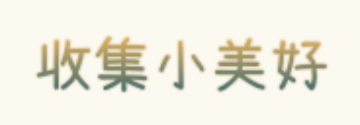
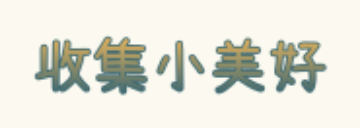
Support font choices across lettering recipes

Changed region(s): [[0.0917, 0.264, 0.9167, 0.744]]

diff --git a/src/creation-library/title.js b/src/creation-library/title.js
@@ -6,13 +6,14 @@ const extent=(text,fontSize)=>segments(text).reduce((sum,ch)=>sum+fontSize*pt*(/
 const roles={primary:1.35,secondary:.78,normal:1};
 const at=(x,y)=>({reference:'parent',at:[x,y],unit:'mm',anchor:'top-left'});
 
-export const titleFields=['text','fontFamily','fontSizePt','widthMm','heightMm','colors','pattern','count','runs','emphasis','caption','gapMm','style','curveHeightMm'];
+export const titleFields=['text','fontFamily','fontSizePt','widthMm','heightMm','colors','pattern','count','runs','emphasis','caption','captionFontFamily','gapMm','style','curveHeightMm'];
 export const titleHelp={
- runs:'可选词组数组；每项 {text,role:primary|secondary|normal,breakBefore?,rotationDeg?,offsetMm?,style?}，text 拼接必须等于完整标题；按词义分组，不随机旋转每字',
+ runs:'可选词组数组；每项 {text,role:primary|secondary|normal,fontFamily?,breakBefore?,rotationDeg?,offsetMm?,style?}。fontFamily 可给某个词组换字体；text 拼接必须等于完整标题；按词义分组，不随机旋转每字',
  emphasis:'需底色或圈注的精确词组，必须在 text 中出现；多个同词默认均强调',
  style:'与 text.add 相同的文字 style；可组合 outline/gradient/shadow/fillOpacity/字体等，不包含位置尺寸',
  curveHeightMm:'弧形标题弯曲高度，-80–80 mm；正负改变方向，必须单行',
  caption:'标题旁的小注，用户事实或本任务允许的随写；不自动编造',
+ captionFontFamily:'小注字体；默认沿用标题字体，可选预装字体或本机已安装字体',
  gapMm:'词组间距，0–20 mm'
 };
 
@@ -24,7 +25,8 @@ export function validateTitle(p){
  if(p.runs!==undefined){
   if(!Array.isArray(p.runs)||!p.runs.length||p.runs.length>24)throw Error('词组须为 1–24 项');
   for(const r of p.runs){
-   if(!r||Object.keys(r).some(k=>!['text','role','breakBefore','rotationDeg','offsetMm','style'].includes(k))||typeof r.text!=='string'||!r.text.length||!Object.hasOwn(roles,r.role||'normal'))throw Error('词组内容或角色无效');
+   if(!r||Object.keys(r).some(k=>!['text','role','fontFamily','breakBefore','rotationDeg','offsetMm','style'].includes(k))||typeof r.text!=='string'||!r.text.length||!Object.hasOwn(roles,r.role||'normal'))throw Error('词组内容或角色无效');
+   if(r.fontFamily!==undefined&&(typeof r.fontFamily!=='string'||!r.fontFamily.trim()))throw Error('词组字体名无效');
    if(r.breakBefore!==undefined&&typeof r.breakBefore!=='boolean')throw Error('词组换行无效');
    if(r.rotationDeg!==undefined&&(!Number.isFinite(r.rotationDeg)||Math.abs(r.rotationDeg)>20))throw Error('词组旋转须为 -20–20 度');
    if(r.offsetMm!==undefined&&(!Array.isArray(r.offsetMm)||r.offsetMm.length!==2||!r.offsetMm.every(n=>Number.isFinite(n)&&Math.abs(n)<=20)))throw Error('词组偏移须为两个 -20–20 mm 数值');
@@ -47,7 +49,7 @@ export function compileTitle(p,{widthExplicit=false}={}){
  if(p.treatment==='offset-outline')style.outline={color:accent,widthMm:.4,offsetMm:[.6,.7]};
  if(p.treatment==='shadow')style.shadow={color:accent,offsetMm:[.6,.7],blurMm:.1};
  if(['gradient','gradient-outline'].includes(p.treatment))style.gradient={angleDeg:90,stops:[{offset:0,color:accent},{offset:1,color:colors[0]}]};
- if(p.treatment==='gradient-outline')style.outline={color:ground,widthMm:.4,offsetMm:[0,0]};
+ if(p.treatment==='gradient-outline')style.outline={color:colors[0],widthMm:.35,offsetMm:[0,0]};
  Object.assign(style,p.style);
  const children=[],texts=[],background=[],notes=[];let next=0;
  const shape=(kind,x,y,w,h,paint={})=>({op:'graphic.add',id:p.id+'-mark'+(++next),geometry:{kind},place:at(x,y),size:{width:w,height:h,unit:'mm'},style:{fill:accent,...paint}});
@@ -66,7 +68,7 @@ export function compileTitle(p,{widthExplicit=false}={}){
  if(runs){
   let x=5,y=5,lineH=0;
   for(const run of runs){
-   const primary=run.role==='primary',s={...style,fontSizePt:fontSize*roles[run.role||'normal'],...run.style};
+   const primary=run.role==='primary',s={...style,fontSizePt:fontSize*roles[run.role||'normal'],...run.style,...(run.fontFamily?{fontFamily:run.fontFamily}:{})};
    const w=Math.min(width-10,extent(run.text,s.fontSizePt)+2);
    if((run.breakBefore||x+w>width-5)&&x>5){x=5;y+=lineH+(p.gapMm??2);lineH=0;}
    const dx=run.offsetMm?.[0]||0,dy=run.offsetMm?.[1]||(primary?0:s.fontSizePt*pt*.18);
@@ -96,7 +98,7 @@ export function compileTitle(p,{widthExplicit=false}={}){
  const mainTexts=texts.slice();
  let height=Math.max(p.heightMm||14,...texts.map(t=>t.y+t.h+5));
  if(p.treatment==='seal')height=Math.max(height,width);
- if(p.caption){const y=p.treatment==='seal'?width+3:Math.max(...texts.map(t=>t.y+t.inkHeight))+3;const t=addText(p.caption,5,y,width-10,{fontFamily:style.fontFamily,fontSizePt:Math.min(12,fontSize*.65),color:colors[0]});height=t.y+t.h+5;}
+ if(p.caption){const y=p.treatment==='seal'?width+3:Math.max(...texts.map(t=>t.y+t.inkHeight))+3;const t=addText(p.caption,5,y,width-10,{fontFamily:p.captionFontFamily||style.fontFamily,fontSizePt:Math.min(12,fontSize*.65),color:colors[0]});height=t.y+t.h+5;}
  if(['label','bubble','seal'].includes(p.treatment))background.unshift(shape(['bubble','seal'].includes(p.treatment)?'ellipse':'rect',0,0,width,p.treatment==='seal'?width:height,{fill:ground,...(p.treatment==='seal'?{stroke:colors[0],strokeWidthMm:.4}:{})}));
  if(p.treatment==='underline'){
   const last=mainTexts.at(-1),bottom=last.y+last.inkHeight;

diff --git a/src/creation-library/techniques.js b/src/creation-library/techniques.js
@@ -8,6 +8,7 @@ import {techniqueExample,exampleMaterials} from './examples.js';
 import {measureSceneText} from '../scene-text-layout.js';
 import {styleFor} from '../scene-node-properties.js';
 import {tapeDimensions} from '../tape-strip.js';
+import {journalBundledFonts} from '../journal-font-catalog.js';
 export const techniqueCatalog=catalog;
 const common=['id','reference','at','rotationDeg'];
 const graphic=['widthMm','heightMm','colors','seed'];
@@ -36,7 +37,7 @@ export function describeTechnique(id){
  const names=methodFields(method),help={...fieldHelp,...titleHelp,...(method.recipe==='accent'?{count:'数字点缀候选数量 1–24；指定 positions 时以其长度为准；避让可能减少实际数量',widthMm:'点缀组局部范围宽度，毫米；不会缩放实体',heightMm:'点缀组局部范围高度，毫米；不会缩放实体'}:{}),...(method.recipe==='tape'?{widthMm:'胶带摆放范围宽度，毫米；不会缩放实体',heightMm:'胶带摆放范围高度，毫米；不会缩放实体'}:{}),corePlace:'可选窗芯位置，使用 layer.update.place 的完整结构。传入时显示并定位窗芯；不传则隐藏保留。位置按裁下窗芯的外接框定位，保留原图裁切来源',strip:'已经放置并对准孔位的真实纸条节点 ID；不缩放或自动拉长',through:'按穿行顺序给 2–16 项 {target,sideAfter:"front"|"back",region? ,window?}；region 用 material.window 的 Region 开新孔，window 引用已有孔 ID，二选一。新孔窗芯隐藏保留；输出报告列出替代后的框与窗芯 ID',...(method.recipe==='write'?{box:'素材局部可写区域 [x,y,width,height]，各值为比例；需先观察图片，避开重要图案',text:'完整正文，最多 500 字；不截断，实际高度需看预览'}:{}),...(method.defaults.shape==='bubble'?{text:'气泡中的短批注；超出框内可写区域时报错'}:{})};
  if(method.id==='magazine-offset')help.caption='主图下方的可选短图注，仅对应 aliases 首项；不自动编造';
  const example=techniqueExample(method);
- return {...method,parameters:Object.fromEntries(names.map(k=>[k,{description:help[k],required:k==='id'||required[method.recipe].includes(k)||(k==='corePlace'&&method.defaults.reuseCore===true)||(method.id==='graphic-route'&&k==='waypoints')||(method.defaults.shape==='bubble'&&k==='text')}])),geometryOptions:advancedShapeControls(method.defaults.shape||method.defaults.pattern),example:{materials:exampleMaterials.filter(a=>(example.parameters.aliases||[]).includes(a.alias)||example.before.some(op=>op.asset===a.alias)),prepare:example.before,note:'示例别名和已有节点来自本例准备步骤；实际调用替换成本次素材和节点。'},tool:{name:'creation_recipe',arguments:{kind:'technique',recipeId:id,transactionId:'unique-id',baseSceneRevision:'当前版本',parameters:example.parameters}}};
+ return {...method,parameters:Object.fromEntries(names.map(k=>[k,{description:help[k],...(k==='fontFamily'||k==='captionFontFamily'?{suggestedFonts:journalBundledFonts.map(f=>({family:f.family,label:f.label}))}:{}),required:k==='id'||required[method.recipe].includes(k)||(k==='corePlace'&&method.defaults.reuseCore===true)||(method.id==='graphic-route'&&k==='waypoints')||(method.defaults.shape==='bubble'&&k==='text')}])),geometryOptions:advancedShapeControls(method.defaults.shape||method.defaults.pattern),example:{materials:exampleMaterials.filter(a=>(example.parameters.aliases||[]).includes(a.alias)||example.before.some(op=>op.asset===a.alias)),prepare:example.before,note:'示例别名和已有节点来自本例准备步骤；实际调用替换成本次素材和节点。'},tool:{name:'creation_recipe',arguments:{kind:'technique',recipeId:id,transactionId:'unique-id',baseSceneRevision:'当前版本',parameters:example.parameters}}};
 }
 function validate(method,params){
  libraryID(params.id);const allowed=new Set(methodFields(method));
@@ -55,6 +56,8 @@ function validate(method,params){
  if(params.count!==undefined&&(!Number.isInteger(params.count)||params.count<1||params.count>30))throw Error('纹样数量为 1–30');
  if(params.seed!==undefined&&(!Number.isInteger(params.seed)||params.seed<1||params.seed>2147483646))throw Error('种子无效');
  if(params.text!==undefined&&(typeof params.text!=='string'||!params.text.trim()||params.text.length>500))throw Error('文字应为 1–500 字');
+ if(params.fontFamily!==undefined&&(typeof params.fontFamily!=='string'||!params.fontFamily.trim()))throw Error('字体名无效');
+ if(params.captionFontFamily!==undefined&&(typeof params.captionFontFamily!=='string'||!params.captionFontFamily.trim()))throw Error('小注字体名无效');
  if(params.caption!==undefined&&(typeof params.caption!=='string'||params.caption.length>1000))throw Error('注释过长');
  if(params.pattern!==undefined&&!['plain','dots','stripes','grid'].includes(params.pattern))throw Error('未知背景花纹');
  if(params.items&&(!Array.isArray(params.items)||!params.items.length||params.items.length>12||params.items.some(t=>typeof t!=='string'||!t.trim()||t.length>180)))throw Error('条目格式无效');

diff --git a/tests/creation-library.test.js b/tests/creation-library.test.js
@@ -219,6 +219,27 @@ test('phrase composition preserves the supplied text, meaningful grouping and ph
  assert.equal(apply(await document([]),compiled.operations,[]).changed,true);
  assert.throws(()=>compileTechnique({methodId:'title-phrases',parameters:{id:'bad',text:'完整标题',runs:[{text:'标题'}]}}),/拼接/);
 });
+test('lettering recipes expose and preserve different bundled fonts',async()=>{
+ const detail=describeTechnique('title-caption');
+ assert.ok(detail.parameters.fontFamily.suggestedFonts.some(font=>font.family==='HongLeiZhuoShu'));
+ assert.ok(detail.parameters.captionFontFamily.suggestedFonts.some(font=>font.family==='Xiaolai'));
+ const title=compileTechnique({methodId:'title-caption',parameters:{id:'font-title',text:'收集日常',caption:'周末手记',fontFamily:'HongLeiZhuoShu',captionFontFamily:'Xiaolai',runs:[{text:'收集',fontFamily:'FontQu Smile'},{text:'日常',role:'primary'}]}});
+ const titleTexts=title.operations[0].children.filter(op=>op.op==='text.add');
+ assert.deepEqual(titleTexts.map(op=>op.style.fontFamily),['FontQu Smile','HongLeiZhuoShu','Xiaolai']);
+ const applied=apply(await document([]),title.operations,[]);
+ assert.equal(applied.changed,true);
+ for(const [id,family] of titleTexts.map(op=>[op.id,op.style.fontFamily]))assert.equal(applied.document.page.layers[0].children.find(node=>node.id===id)?.fontName,family);
+ for(const [methodId,parameters,family] of [
+  ['record-checklist',{id:'font-record',items:['一段日记'],fontFamily:'Sophora'},'Sophora'],
+  ['photo-caption',{id:'font-caption',aliases:['m1'],caption:'图注',fontFamily:'Like JianJian'},'Like JianJian'],
+  ['graphic-bubble',{id:'font-bubble',text:'旁注',fontFamily:'Otsutome'},'Otsutome']
+ ]){
+  const compiled=compileTechnique({methodId,parameters,materials:exampleMaterials});
+  assert.ok(compiled.operations[0].children.filter(op=>op.op==='text.add').every(op=>op.style.fontFamily===family),methodId);
+ }
+ const written=compileTechnique({methodId:'record-on-material',parameters:{id:'font-write',target:'note',box:[.1,.1,.8,.6],text:'落笔',fontFamily:'Ma Shan Zheng'}});
+ assert.equal(written.operations[0].style.fontFamily,'Ma Shan Zheng');
+});
 test('keyword highlight is local, behind text, and transparent hollow titles do not paint paper color',()=>{
  const marked=compileTechnique({methodId:'title-highlight',parameters:{id:'h',text:'留住今天的小美好',emphasis:'小美好',widthMm:100}}).operations[0].children;
  const bg=marked.find(o=>o.op==='graphic.add'),texts=marked.filter(o=>o.op==='text.add');

diff --git a/docs/CREATION_LIBRARY_AUDIT.md b/docs/CREATION_LIBRARY_AUDIT.md
@@ -236,3 +236,10 @@
 - 基础工具的可执行示例仍提供具体参数和准备步骤，供 `creation_recipe` 调用复现；不再为露边、开窗等单步操作维护独立图片。
 - 模板仍为 78 个，后续模板解析继续暂停。
 - 最终方法图 47 张、模板图 78 张，清单总计 125 张，文件均存在且能生成目录。完整回归 1963 项通过、1 项跳过、0 失败；UI smoke、React 路由与 7 视口路由通过。未合并、未部署。
+
+## 文字工具字体与标题示意复核
+
+- 标题、记录、图注、气泡、素材内书写的 `fontFamily` 参数现在通过 `read_skill` 给出随包字体及名称。标题词组可分别指定 `runs[].fontFamily`，标题小注可指定 `captionFontFamily`，默认沿用主标题字体。教程说明区分 `creation_recipe.parameters.fontFamily` 与底层 `text.add.style.fontFamily`。
+- 测试覆盖七种随包字体在不同文字工具中的传递，并确认标题各词组及小注作为可编辑文字节点保留各自字体。未增加字体文件或模板；模板仍为 78 个，后续解析继续暂停。
+- “渐变描边”原默认描边与浅色纸面接近，示意几乎看不出和普通渐变的区别；改为深色细描边并重生成图片，已目视核对。基础工具仍不附示意图，方法图 47 张、模板图 78 张，清单总计 125 张。
+- 完整回归 1964 项通过、1 项跳过、0 失败；UI smoke、React 路由与 7 视口路由通过。尚未进行远程模型自主创作或实体设备验收，也未合并或部署。
